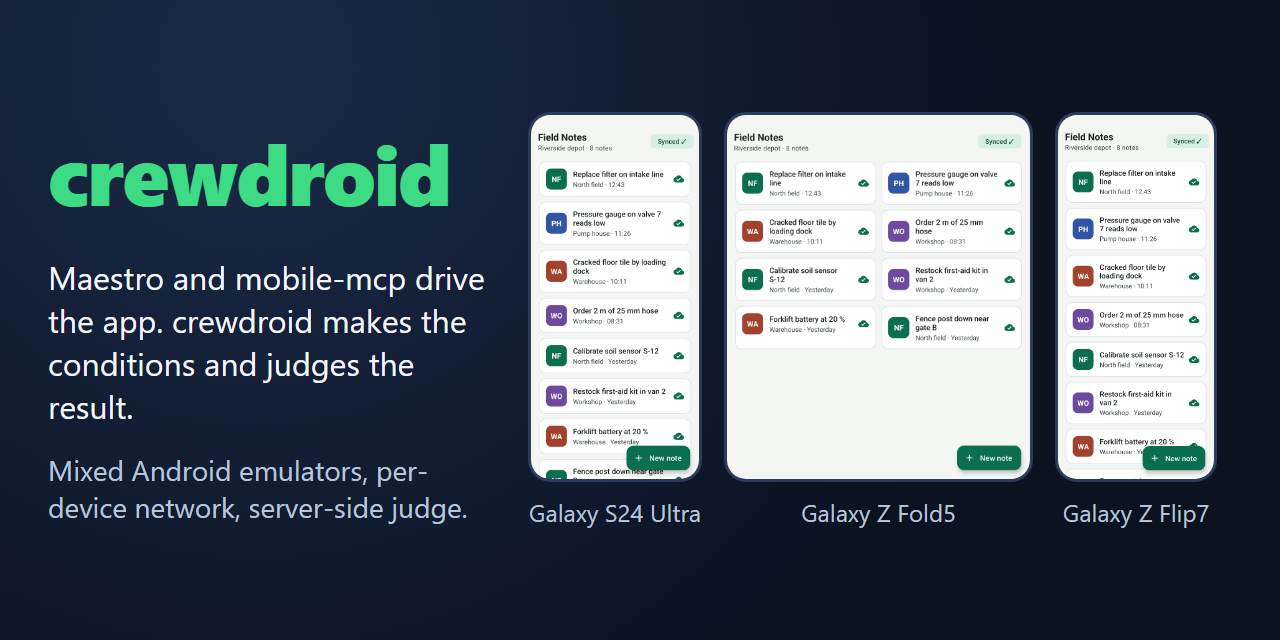
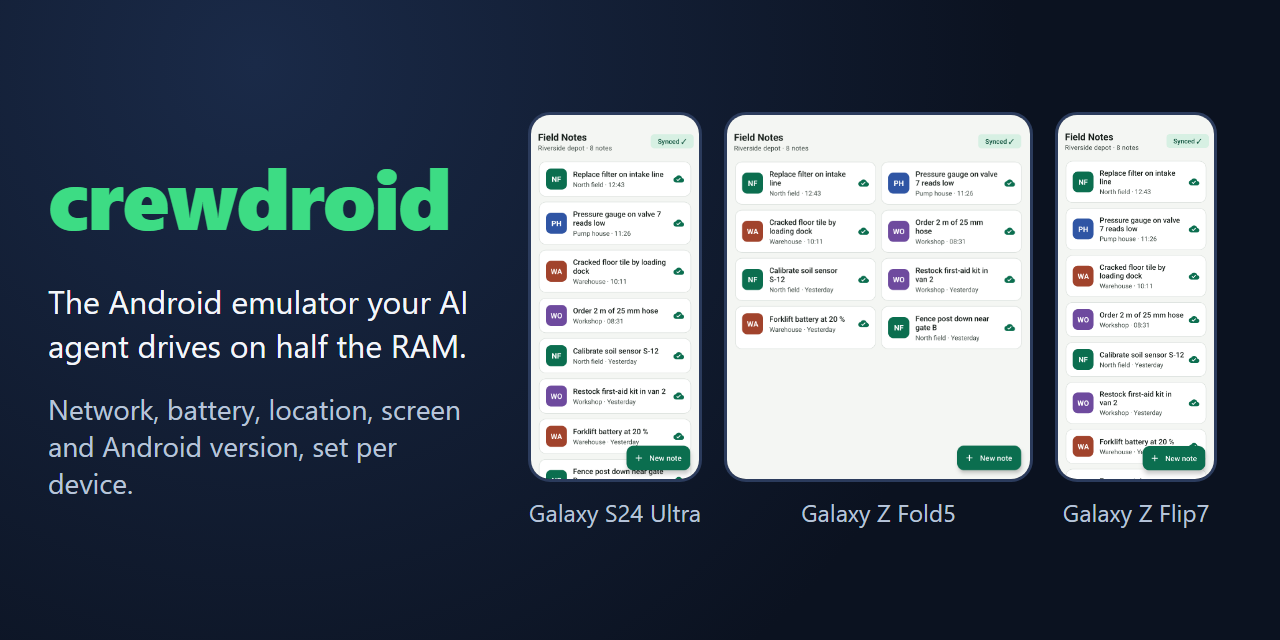
Lead with what it is: a light emulator an AI agent drives, conditions set per device

diff --git a/README.md b/README.md
@@ -2,13 +2,17 @@
 
 [![ci](https://github.com/namyunsu/crewdroid/actions/workflows/ci.yml/badge.svg)](https://github.com/namyunsu/crewdroid/actions/workflows/ci.yml) [![npm](https://img.shields.io/npm/v/crewdroid)](https://www.npmjs.com/package/crewdroid) [![MCP Registry](https://img.shields.io/badge/MCP%20Registry-io.github.namyunsu%2Fcrewdroid-blue)](https://registry.modelcontextprotocol.io/v0/servers?search=crewdroid) [![license](https://img.shields.io/badge/license-MIT-green)](LICENSE)
 
-**Maestro and mobile-mcp drive your Android app. crewdroid makes the conditions and judges the result.**
+**An Android emulator your AI agent drives on under half the RAM of Android Studio's, with the phone's conditions set per device: network, battery, location, screen, font, Android version.**
 
 crewdroid is for the build-and-check loop while you develop an app; a real phone is still where you test push notifications, Play services, Google sign-in and the camera app ([Limits](#limits-when-to-use-a-real-phone)).
 
 [![15 s demo: crewdroid boots S24, Fold5 and Flip7 emulators on Android 14 and 16, cuts one phone's network while a note waits offline and syncs back, judges the server data (FAIL: 7 violations), then folds a device and turns on dark mode](docs/demo/hero.gif)](docs/demo/hero.mp4)
 
-Your AI agent can already tap through an app. What it cannot see is what happened behind the screen: the upload that went through twice when the network dropped, the record that vanished in airplane mode, the edit another user silently overwrote. crewdroid gives the agent the devices and the conditions that cause those bugs, and a verdict it can act on.
+- **Light.** 1426 MB of host RAM and 2.09 GiB of disk per device, against 3479 MB and 6.78 GiB for Android Studio's default AVD; cold boot 23.7 s against 39.3 s ([table](#one-device-against-android-studios-default-emulator)).
+- **Made for an agent.** `screen` returns a text outline (`[3] btn "Send" #send @540,1210`) in about a third of a screenshot's tokens (1882 vs 6183 per task), `tap --text Send` taps by name on any screen size, and every command is both a CLI with `--json` and an MCP tool.
+- **Conditions on demand.** Per device: `net airplane|nodata|slow|flaky`, `env` battery / location / dark mode / font size / locale / rotation, Galaxy S24 · Fold · Flip screens with fold / unfold, Android 12 / 14 / 16, a used-phone `load`.
+
+Also in the box: judging your server's data for duplicate, missing and silently overwritten records after a multi-device run, a layout sweep across screens and fonts, crash / ANR triage.
 
 ## One device, against Android Studio's default emulator
 
@@ -179,6 +183,7 @@ crewdroid runs Google's `google_atd` images (chosen for lightness). Measured on 
 
 - Android SDK with command-line tools and emulator >= 36.4 (`ANDROID_SDK_ROOT` or `ANDROID_HOME` must point at it, or `~/.crewdroid/android-sdk` must exist). No SDK yet: `npx crewdroid setup --yes` installs JDK 17 (for sdkmanager only), command-line tools, platform-tools, emulator and the `google_atd` image (`--images 34,31,36`, `--dry-run` lists sizes first); crewdroid downloads the `google_atd` images it needs for the host CPU (x86_64, or arm64-v8a on Apple Silicon / ARM Linux; API 31/34/36, ~0.9 GB each) and shrinks them with `slim`
 - Node >= 22
+- From a git checkout instead of npm: run `npm ci && npm run prepack` once. It builds the on-device helper APK (JDK 17) that the npm package already ships; without it `screen`/`tap` fall back to `uiautomator` and `type` takes ASCII only
 - Windows 10/11 x64, macOS on Apple Silicon, or Linux x64/arm64
 - Hardware acceleration: WHPX (Windows), Hypervisor.framework (macOS) or KVM (Linux, `/dev/kvm`); `setup` reports `emulator -accel-check`
 - Image limits (`google_atd`, chosen for lightness): see [Limits](#limits-when-to-use-a-real-phone); also no Messages or Dialer (SMS and calls change telephony state only) and no GPU (frame numbers compare runs, not phones). Supported despite the image: any Unicode text input incl. Korean (on-device helper), and the API 31 black-screen-after-relaunch is detected and recovered (`blackRelaunch`)

diff --git a/docs/adr/0009-wifi.md b/docs/adr/0009-wifi.md
@@ -29,7 +29,9 @@
 - 근거: API 36 클론 2대에서 5580 이 DISCOVER 를 보내는 동안 5582 의 로그에 `Received packet: 02:15:b2:00:00:01 OFFER, ip /10.0.2.17` (5580 의 MAC 앞으로 온 응답이 5582 에 도착), 5580 의 wlan0 링크 로컬 주소는 `dadfailed` (다른 클론과 같은 주소). 혼합 3대(31/34/36)에서도 34 만 붙었다(두 번 따로 띄워 두 번 다). 한 대만 띄우면 세 API 모두 붙는다. 모든 Wi-Fi 를 끄고 한 대만 다시 켜도 안 붙었다(실행 중 기기끼리의 주소 충돌이 아님). 프레임워크 재시작(`makeDistinct` 와 같은 `stop; start`)만 한 한 대는 붙었다(재시작이 원인 아님) [확인함 2026-10-29 실행, 호스트에 `netsimd.exe` 하나가 qemu 3개 옆에 떠 있었다].
 - 원인: 에뮬레이터들이 netsimd 하나(호스트 프로세스)를 공유 Wi-Fi 매체로 쓰는데, 한 스냅샷의 `-read-only` 클론들은 virtio-wifi 장치 MAC 이 같다 [추론: 게스트에서 wlan0 MAC 을 바꾸고(`makeDistinct`), `connect-network -r none` 으로 MAC 랜덤화를 꺼도 그대로였다. 에뮬레이터 `-help` 에 정확히 이 경우용 `-wifi-mac-address` 옵션이 있다: "This option only applies to situation where AVD is loaded from snapshot using read-only mode"].
 - 지금 동작: 여러 대에서 `net wifi|both` 는 120 s 안에 Wi-Fi 가 안 붙으면 이유(이 ADR)를 담아 exit 1 한다. 셀룰러·`online`·`slow`·`nodata`·`airplane`·`flaky` 는 영향 없다(`online` 은 기본 네트워크만 본다).
-- 고치는 길(사용자 결정 필요, 이번에 안 함): 클론마다 `-wifi-mac-address 02:15:b2:<port>` 를 기동 인자에 더한다. 다운로드·디스크 비용은 없지만 기동 플래그 변경이라 "새 기능은 기동 플래그를 바꾸지 않는다" 규칙에 걸리고, 3대 유휴 RAM/CPU 재측정이 따라온다 [모름: 이 옵션으로 실제로 고쳐지는지는 시험하지 않았다].
+- T74 (2026-10-30, 사용자가 `-wifi-mac-address` 만 허용): 클론마다 포트에서 만든 MAC(`02:15:b2:00:15:cc` = 5580, `:ce`, `:d0`)을 줬다. 게스트 wlan0 MAC 은 바뀌었지만(makeDistinct 의 게스트 MAC 덮어쓰기도 빼 봤다) 혼합 3대(31/34/36)에서 여전히 34 만 Wi-Fi 주소를 받았다. 나머지는 AP 에 붙은 뒤 `CTRL-EVENT-BEACON-LOSS`, DHCPDISCOVER 만 되풀이. 그래서 이 플래그는 넣지 않았다 [확인함 2026-10-30 실행].
+- 진짜 원인: netsimd 로그 `wifi/medium.rs: Insert station with client id 1000|1003|1006, hwsimaddr: 02:15:cc:00:00:00, Ieee80211 addr: 02:15:b2:00:15:cc|ce|d0`. netsim 의 공유 Wi-Fi 매체는 스테이션을 hwsim 주소로 구분하는데, 그 주소는 세 클론 모두 `02:15:cc:00:00:00` 이고 `-wifi-mac-address` 는 wlan0(Ieee80211) 주소만 바꾼다. 같은 hwsim 주소로 나중에 붙은 클론이 앞 클론의 자리를 덮는다 [확인함 2026-10-30 netsimd 로그 `%TEMP%/netsimd/netsim_stderr.log`].
+- 고쳐지는 것(시험만, 넣지 않음): `-feature -WiFiPacketStream` (netsim 대신 에뮬레이터마다 따로 도는 Wi-Fi) 를 더하면 혼합 3대 모두 `net wifi` → `default wifi` (3.2~14 s), `-wifi-mac-address` 없이도 됐다(세 클론 wlan0 이 모두 `02:15:cc:00:00:00` 인데도). 유휴 3대 RAM 3229 MB / CPU 46.3 % (같은 방법의 기준 3144 MB / 42.9 %, +2.7 %) [확인함 2026-10-30 실행]. 다른 기동 플래그라 T74 범위 밖 — 넣으려면 사용자 결정이 필요하다. 클론끼리 같은 Wi-Fi 망에 있지 않게 되는 차이가 있다(지금도 주소를 못 받으니 잃는 것은 없다) [추론].
 
 ## 핸드오버 중 업로드 (실측)
 Wi-Fi 만 켜고 `slow`(1 Mbit/s) 로 2 MB 업로드를 시작, 3 s 뒤 `handover --to cellular`: 세 API 모두 프로브가 `UPLOAD fail SocketException: Software caused connection abort` 를 찍고 서버에는 0건이 남았다(두 번 저장되지 않음). 옛 링크의 TCP 연결은 끊기므로 앱이 다시 보내야 한다 — 그게 앱 재시도·멱등 키를 시험할 조건이다.

diff --git a/docs/measurements/features.md b/docs/measurements/features.md
@@ -10,3 +10,4 @@ One row per Todo that adds a runtime command (lightness rule: no launch flag / A
 | 2026-10-27 | T52 agent helper | 3 (s24ultra@34, s22@31, flip7-main@36) | 30 | 2300 -> 2323 | +1 % | 46 -> 53.3 | daemon: on-device helper; before = helper stopped, after = mean of helper running before and after that window; helper PSS 34: 20 of 842 MB, 31: 14 of 710 MB, 36: 24 of 839 MB |
 | 2026-10-27 | T62 load | 3 (s22@31, s24ultra@34, s26ultra@36; default 896/768 MB) | 30 | 3667 -> 2239 | -38.9 % | 248.8 -> 45.6 | no daemon while off; before = 60 s after `up --count 3` (still settling), after = after `load low` then `load off` on every device (0 load processes, 0 fillers left); `low` on these default guests left MemAvailable 6.5 / 5.1 / 1.4 % (API 31 / 34 / 36) |
 | 2026-10-29 | T63 net wifi/handover/metered | 3 (s22@31, s24ultra@34, s26ultra@36) | 30 | 3809 -> 1637 | -57 % | 359.2 -> 32.5 | no daemon (state = guest property `debug.crewdroid.link` + Wi-Fi config); before = 60 s after `up --count 3` (still settling), after = after `net cellular`, `wifi`, `metered on`, `metered off`, `handover --to cellular`, `both`, `online` on every device. Only the API 34 device got Wi-Fi; on 31 and 36 `wifi`/`both` exited 1 after 120 s and `metered`/`handover` refused (one Wi-Fi address per host, ADR 0009) |
+| 2026-10-30 | T74 wifi on every clone (tried, not kept) | 3 (s22@31, s24ultra@34, s26ultra@36) | 30 | 3144 -> 3469 | +10.3 % | 42.9 -> 45.4 | launch-flag test, one fresh `up --count 3` each, 120 s settle then 30 s idle; before = unchanged flags, after = `-wifi-mac-address` per clone. Flag did not fix Wi-Fi (still only API 34), so it was not kept; the +10.3 % is one sample each. `-feature -WiFiPacketStream` instead (not kept, needs a decision): 3229 MB (+2.7 %), CPU 46.3 %, Wi-Fi on all 3 (ADR 0009) |
